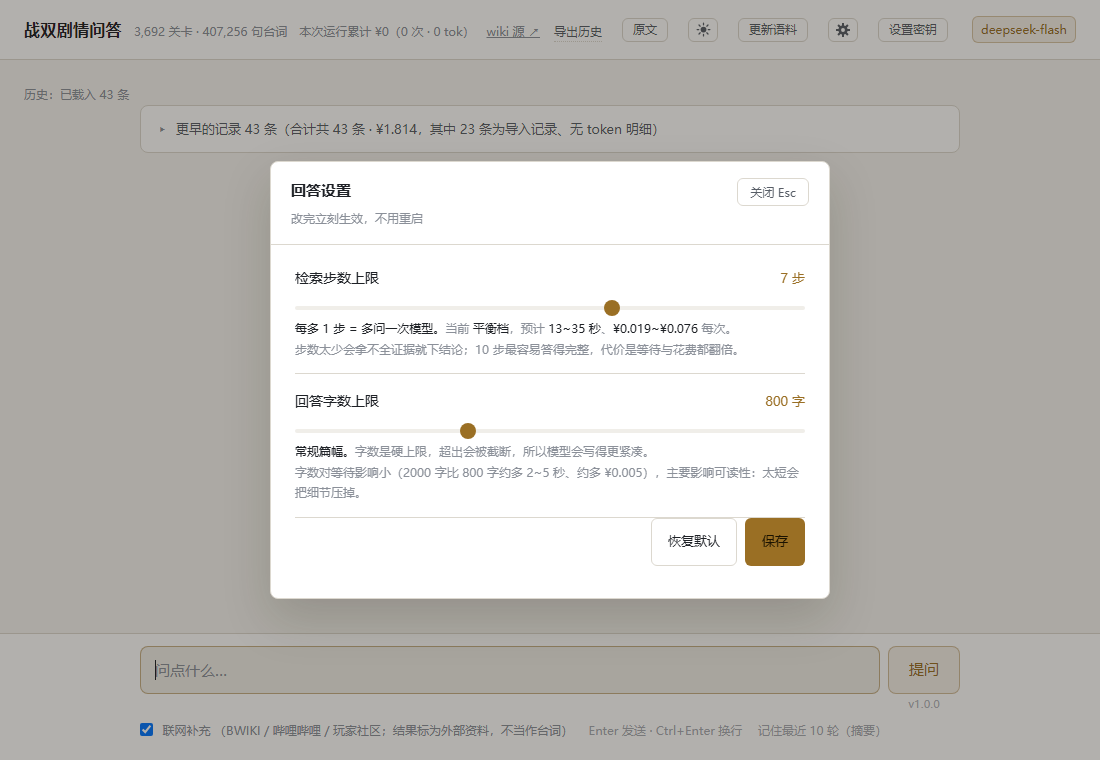
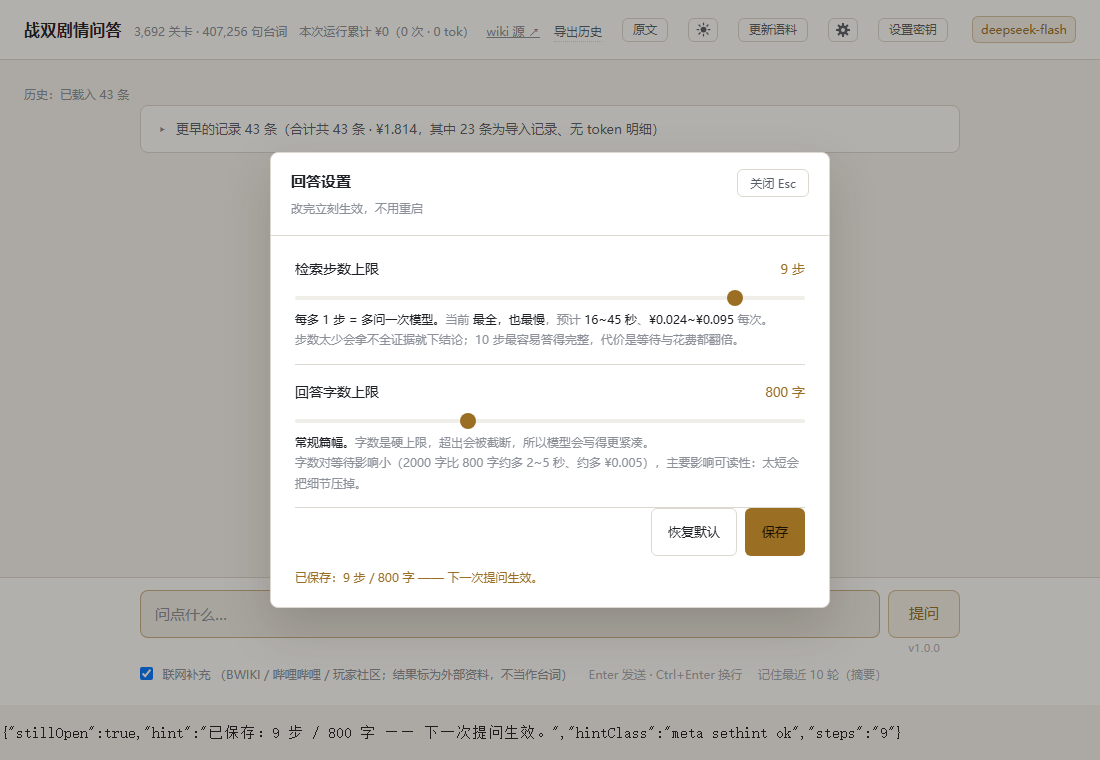
设置保存后不再自动关闭；成功提示用强调色并保留在窗内
- 去掉 setTimeout(closeSettings, 900)：提示看完再关，关窗交给用户
- 提示区加 .sethint.ok / .bad 两种状态色，拖动滑条时自动清空
- 实测：保存后浮窗仍在（stillOpen=true），提示「已保存：9 步 / 800 字 —— 下一次提问生效」

diff --git a/web/index.html b/web/index.html
@@ -114,6 +114,9 @@
     background:var(--accent);border:0}
   .setnote{font-size:12px;line-height:1.7;color:var(--fg-faint)}
   .setnote b{color:var(--fg);font-weight:500}
+  .sethint{margin-top:12px;font-size:12px;line-height:1.6}
+  .sethint.ok{color:var(--accent)}
+  .sethint.bad{color:var(--warn)}
   .setfoot{display:flex;gap:8px;justify-content:flex-end;margin-top:16px}
   .setbtn{font:inherit;font-size:13px;padding:8px 16px;border-radius:6px;cursor:pointer;
     background:var(--accent);color:#1a1200;border:1px solid transparent}
@@ -1107,8 +1110,8 @@ function closeSettings(){ setDlg.hidden = true; }
 
 document.getElementById('setBtn').addEventListener('click', openSettings);
 setDlg.addEventListener('click', e => { if(e.target.closest('[data-setclose]')) closeSettings(); });
-stepsRange.addEventListener('input', renderSettings);
-charsRange.addEventListener('input', renderSettings);
+stepsRange.addEventListener('input', () => { setHint.textContent = ''; renderSettings(); });
+charsRange.addEventListener('input', () => { setHint.textContent = ''; renderSettings(); });
 
 document.getElementById('setReset').addEventListener('click', () => {
   stepsRange.value = 7; charsRange.value = 800; renderSettings();
@@ -1122,12 +1125,16 @@ document.getElementById('setSave').addEventListener('click', async () => {
     const d = await r.json();
     if(d.ok){
       SET = d.settings;
-      setHint.textContent = `已保存：${d.settings.max_steps} 步 / ${d.settings.max_answer_chars} 字，下一次提问生效。`;
-      setTimeout(closeSettings, 900);
+      setHint.className = 'meta sethint ok';
+      setHint.textContent = `已保存：${d.settings.max_steps} 步 / ${d.settings.max_answer_chars} 字 —— 下一次提问生效。`;
+      // 不自动关闭：提示要让人看完，关窗由用户自己点
+      loadSettings();
     }else{
+      setHint.className = 'meta sethint bad';
       setHint.textContent = d.message || '保存失败';
     }
   }catch(e){
+    setHint.className = 'meta sethint bad';
     setHint.textContent = '保存失败：' + (e.message || e);
   }
 });
